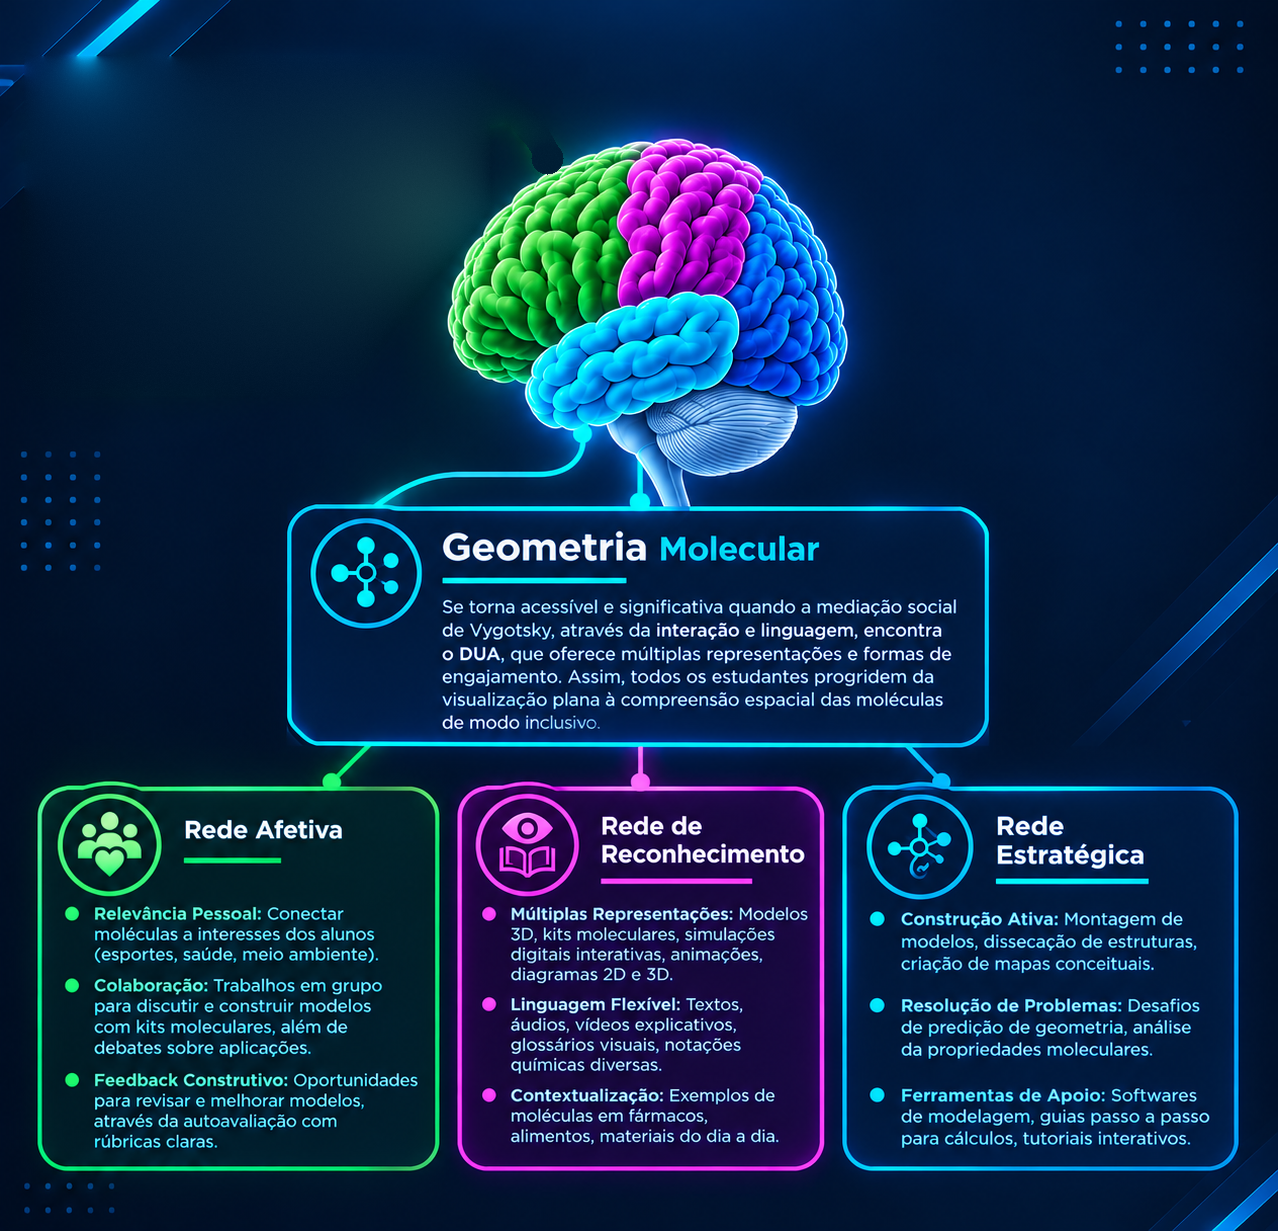
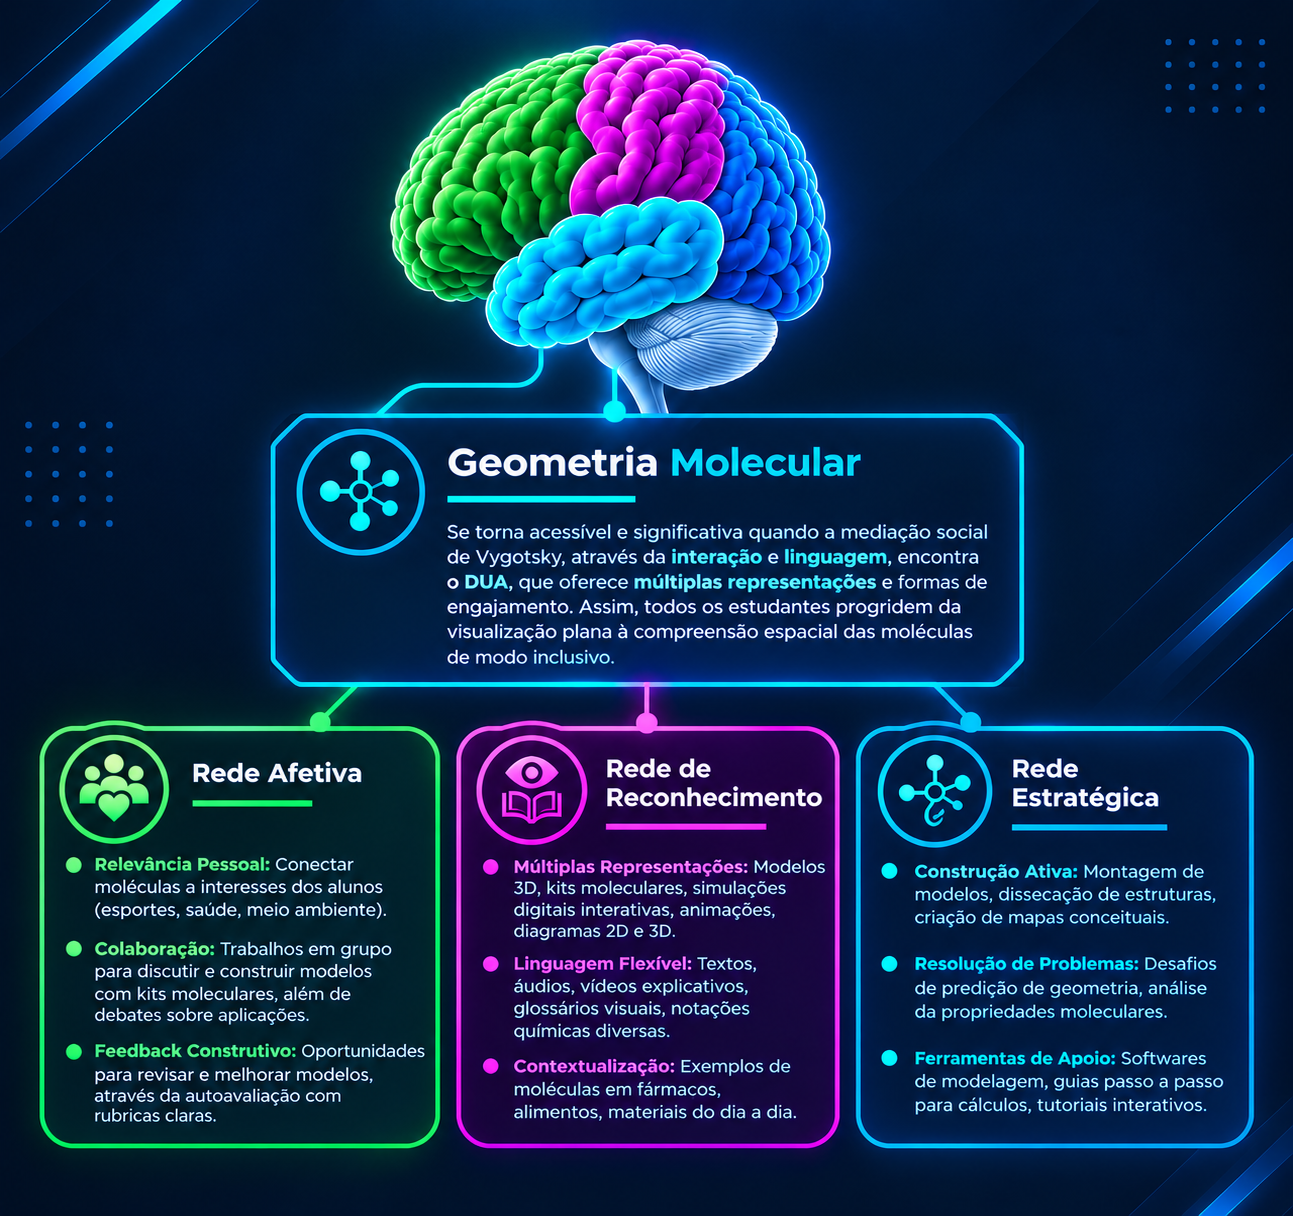
Imagem do dua

diff --git a/index.html b/index.html
@@ -116,7 +116,7 @@
 
                 <li class="nav-item">
                     <a class="nav-link" href="#dua">
-                        Dua
+                        DUA
                     </a>
                 </li>
 
@@ -675,7 +675,7 @@
                 <div class="vr-diagram">
 
                     <img
-                        src="img/dua.png"
+                        src="img/DUA.png"
                         alt="Imagem do cérebro representando o dua"
                         class="dua-image"
                     >
